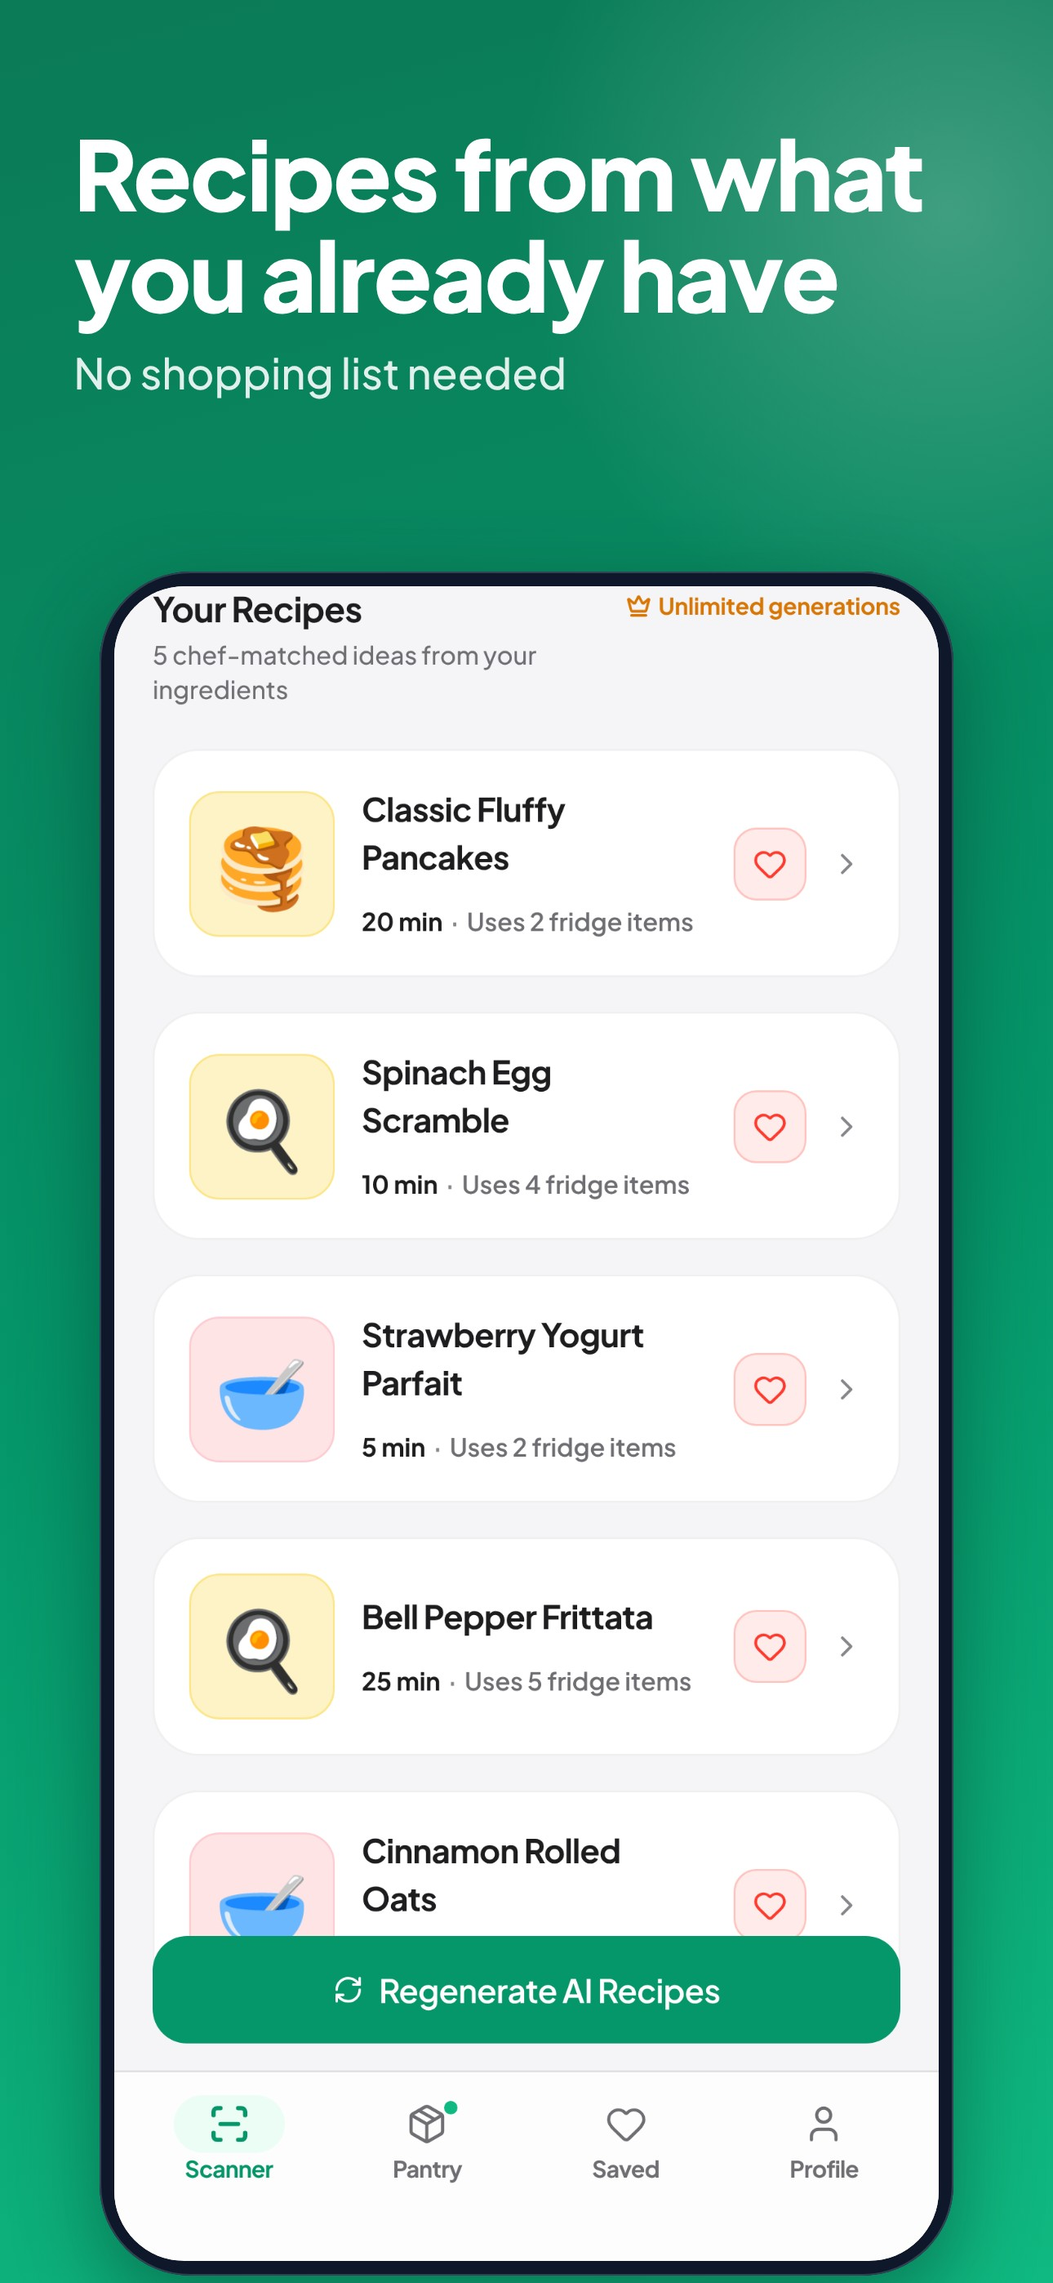
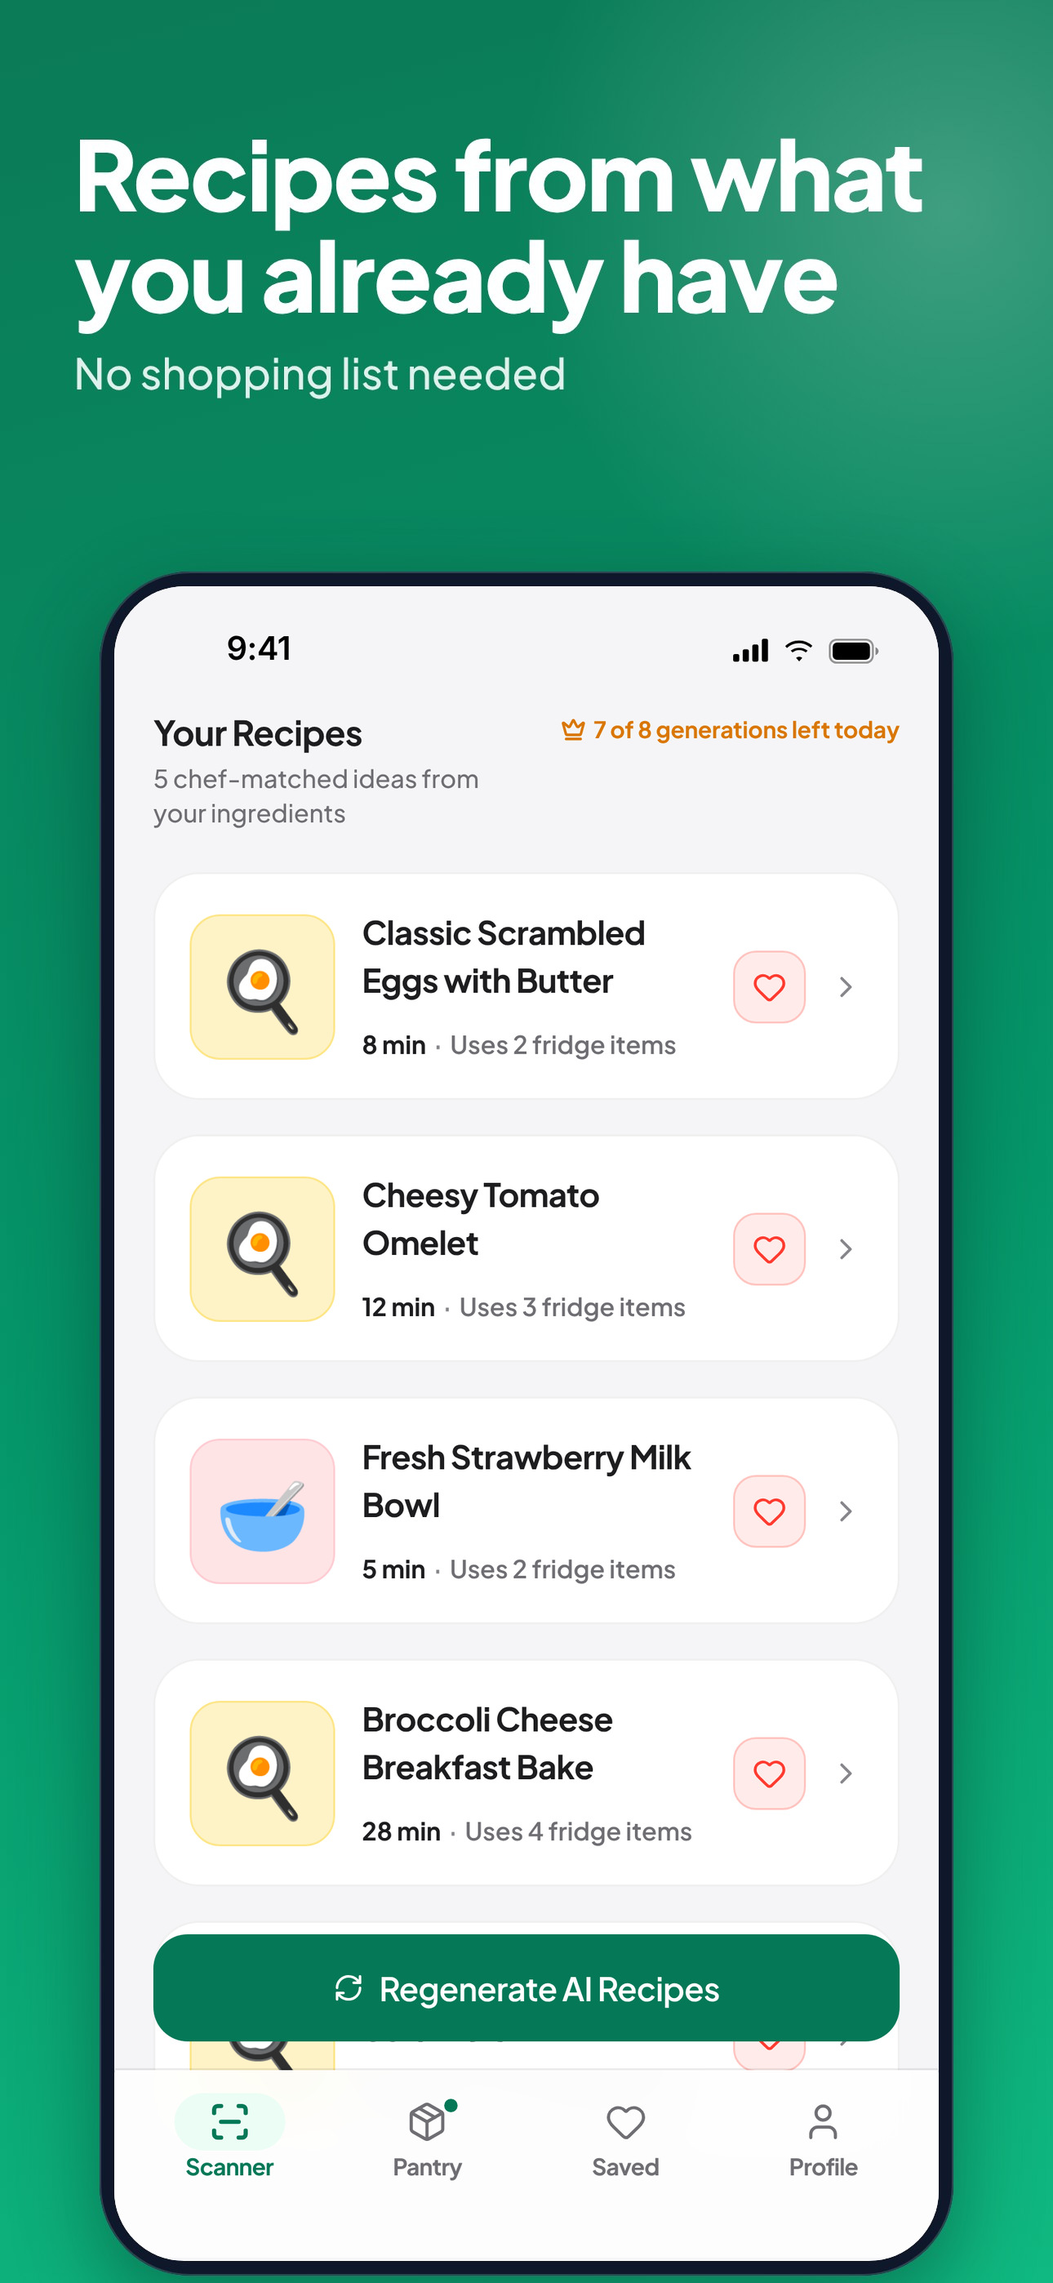
Store slide 02 (EN, PL) recaptured from the real app with status bar; capture tools kept in repo; recipe card: correct noun forms (1 item, Polish 2-4 / 5+)
Claude-Session: https://claude.ai/code/session_01RtbBoobjW7cVhPz1v3aXm1

diff --git a/docs/store/screenshots/tools/capture.js b/docs/store/screenshots/tools/capture.js
@@ -1,0 +1,67 @@
+// Captures the REAL CookSnap screen (the web build served by Metro on :8081) at the phone frame of the slides (430 x 873 pt @3x
+// = 1290 x 2619 px, the same shape as the frame screen) and draws the iOS status bar (9:41, signal, Wi-Fi, full battery) on top, because a browser has none.
+//
+//   NODE_PATH=<dir with playwright> node capture.js <scan|recipes> <en|pl> <out.png> [fridge-photo.jpg|png]
+//
+// Needs `EXPO_PUBLIC_GEMINI_PROXY_URL=... npx expo start --web --port 8081` running. Nothing in the app is changed: the
+// screen is put in its normal "just scanned" state by writing the app's own saved data (same keys the app uses), and
+// "recipes" really taps "Generate AI Recipes" so the recipes are genuinely written by the AI through the proxy.
+const { chromium } = require('playwright');
+const fs = require('fs');
+const path = require('path');
+
+const [slide, lang, out, photo] = process.argv.slice(2);
+if (!slide || !lang || !out) { console.error('usage: capture.js <scan|recipes> <en|pl> <out.png> [photo]'); process.exit(1); }
+
+const T = require(path.join(__dirname, 'strings.js'))[lang];
+const ING = {
+  en: ['Eggs', 'Milk', 'Cheese', 'Butter', 'Tomatoes', 'Bell Pepper', 'Spinach', 'Lemons', 'Strawberries', 'Carrots', 'Cucumber', 'Broccoli', 'Chicken', 'Olives'],
+  pl: ['Jajka', 'Mleko', 'Ser', 'Masło', 'Pomidory', 'Papryka', 'Szpinak', 'Cytryny', 'Truskawki', 'Marchewki', 'Ogórek', 'Brokuły', 'Kurczak', 'Oliwki'],
+};
+const EMOJI = ['🥚', '🥛', '🧀', '🧈', '🍅', '🫑', '🥬', '🍋', '🍓', '🥕', '🥒', '🥦', '🍗', '🫒'];
+const items = ING[lang].map((name, i) => ({ id: `ing-${i}`, name, emoji: EMOJI[i], icon: EMOJI[i] }));
+
+const STATUS_BAR = `
+<div id="ios-status" style="position:fixed;left:0;top:0;width:430px;height:54px;z-index:2147483647;pointer-events:none;font-family:Inter,'SF Pro Text',-apple-system,Helvetica,Arial,sans-serif;color:#000">
+  <div style="position:absolute;left:0;top:0;width:150px;height:54px;display:flex;align-items:center;justify-content:center;padding-top:6px;font-weight:600;font-size:17px;letter-spacing:-0.2px">9:41</div>
+  <div style="position:absolute;right:30px;top:0;height:54px;display:flex;align-items:center;gap:7px;padding-top:6px">
+    <svg width="19" height="12" viewBox="0 0 19 12"><rect x="0" y="8" width="3.2" height="4" rx="1" fill="#000"/><rect x="5" y="5.5" width="3.2" height="6.5" rx="1" fill="#000"/><rect x="10" y="3" width="3.2" height="9" rx="1" fill="#000"/><rect x="15" y="0" width="3.2" height="12" rx="1" fill="#000"/></svg>
+    <svg width="17" height="12" viewBox="0 0 17 12"><path d="M8.5 2.3c2.3 0 4.4.9 6 2.4l.9-1A10.3 10.3 0 0 0 8.5.9C5.7.9 3.2 2 1.2 3.8l.9 1a8.9 8.9 0 0 1 6.4-2.5z" fill="#000"/><path d="M8.5 5.9c1.3 0 2.5.5 3.5 1.3l.9-1a7.4 7.4 0 0 0-8.8 0l.9 1c1-.8 2.2-1.3 3.5-1.3z" fill="#000"/><path d="M8.5 9.4c.6 0 1.2.2 1.6.6L8.5 11.8 6.9 10c.4-.4 1-.6 1.6-.6z" fill="#000"/></svg>
+    <svg width="27" height="13" viewBox="0 0 27 13"><rect x="0.5" y="0.5" width="22.5" height="12" rx="3.6" fill="none" stroke="#000" opacity="0.4"/><rect x="2" y="2" width="19.5" height="9" rx="2.3" fill="#000"/><path d="M24.4 4.4v4.2c.9-.3 1.6-1.2 1.6-2.1s-.7-1.8-1.6-2.1z" fill="#000" opacity="0.45"/></svg>
+  </div>
+</div>`;
+
+(async () => {
+  const browser = await chromium.launch();
+  const ctx = await browser.newContext({ viewport: { width: 430, height: 873 }, deviceScaleFactor: 3, locale: lang === 'pl' ? 'pl-PL' : 'en-US', colorScheme: 'light' });
+  const page = await ctx.newPage();
+  const seed = {
+    'cooksnap:onboardingComplete:v1': 'true', 'cooksnap:recipeLanguage:v1': lang, 'cooksnap:unitSystem:v1': lang === 'pl' ? 'metric' : 'us',
+    'cooksnap:firstScanHintShown:v1': 'true', 'cooksnap:settingsDoneHintShown:v1': 'true', 'cooksnap:aiConsent:v1': 'true',
+    'cooksnap:ingredients:v1': JSON.stringify(items),
+    'cooksnap:isPro:v1': slide === 'recipes' ? 'true' : 'false',
+  };
+  if (photo) { seed['cooksnap:fridgePhoto:v1'] = JSON.stringify('/__shot/fridge'); await page.route('**/__shot/fridge', (r) => r.fulfill({ body: fs.readFileSync(photo), contentType: photo.endsWith('.png') ? 'image/png' : 'image/jpeg' })); }
+  await page.addInitScript((s) => { for (const [k, v] of Object.entries(s)) localStorage.setItem(k, v); }, seed);
+  const cdp = await ctx.newCDPSession(page);
+  await cdp.send('Emulation.setSafeAreaInsetsOverride', { insets: { top: 54, bottom: 34 } }).catch(() => {});
+  await page.goto('http://localhost:8081/', { waitUntil: 'load' });
+  await page.getByText(T.nav_scanner, { exact: true }).last().waitFor({ timeout: 120000 });
+  await page.waitForTimeout(2500);
+  if (slide === 'recipes') {
+    await page.getByText(T.generate, { exact: true }).first().click();
+    await page.getByText(T.recipesTitle, { exact: true }).first().waitFor({ timeout: 180000 });
+    await page.waitForTimeout(6000); // let the cards and their emoji settle
+    await page.evaluate((title) => {
+      const el = [...document.querySelectorAll('div')].find((d) => d.children.length === 0 && d.textContent.trim() === title);
+      const sc = [...document.querySelectorAll('div')].filter((e) => e.scrollHeight > e.clientHeight + 50);
+      if (el) for (const s of sc) s.scrollTop += el.getBoundingClientRect().top - 64;
+    }, T.recipesTitle);
+    await page.waitForTimeout(1200);
+  }
+  await page.evaluate((html) => { const d = document.createElement('div'); d.innerHTML = html; document.body.appendChild(d.firstElementChild); }, STATUS_BAR);
+  await page.waitForTimeout(500);
+  await page.screenshot({ path: out });
+  await browser.close();
+  console.log('saved', out);
+})().catch((e) => { console.error(e); process.exit(1); });

diff --git a/src/components/RecipeCard.jsx b/src/components/RecipeCard.jsx
@@ -7,6 +7,7 @@ import {
 } from "../utils/imageUtils";
 import { useTheme } from "../context/ThemeContext";
 import { useTranslation } from "../context/LanguageContext";
+import { translateCount } from "../i18n";
 import { cookTimeLabel } from "../utils/timeFormat";
 import { TYPE, WEIGHT, RADIUS, SPACE, ICON, emojiLine } from "../theme/tokens";
 import { APPLE, SLATE } from "../theme/palette";
@@ -56,7 +57,7 @@ function RecipeCard({
   compact = false,
 }) {
   const { colors, isDark } = useTheme();
-  const { t } = useTranslation();
+  const { t, recipeLanguageId } = useTranslation();
 
   const safeRecipe = recipe && typeof recipe === "object" ? recipe : null;
   if (!safeRecipe) return null;
@@ -152,7 +153,13 @@ function RecipeCard({
               <Text style={{ color: colors.textTertiary || SLATE[300] }}>
                 {"  ·  "}
               </Text>
-              {t("recipeCard.usesFridgeItems", { count: matchCount })}
+              {matchCount === 1
+                ? t("recipeCard.usesFridgeItemOne", { count: matchCount })
+                : translateCount(recipeLanguageId, matchCount, {
+                    few: "recipeCard.usesFridgeItemsFew",
+                    many: "recipeCard.usesFridgeItemsMany",
+                    fallback: "recipeCard.usesFridgeItems",
+                  })}
             </>
           )}
         </Text>

diff --git a/__tests__/recipeCardCounts.test.js b/__tests__/recipeCardCounts.test.js
@@ -1,0 +1,22 @@
+import { translate, translateCount } from "../src/i18n";
+
+const uses = (lang, n) =>
+  n === 1
+    ? translate(lang, "recipeCard.usesFridgeItemOne", { count: n })
+    : translateCount(lang, n, { few: "recipeCard.usesFridgeItemsFew", many: "recipeCard.usesFridgeItemsMany", fallback: "recipeCard.usesFridgeItems" });
+
+describe("'Uses N fridge items' on a recipe card", () => {
+  it("English says 'item' for one", () => {
+    expect(uses("en", 1)).toBe("Uses 1 fridge item");
+    expect(uses("en", 3)).toBe("Uses 3 fridge items");
+  });
+
+  it("Polish uses the right noun form: 1 składnik, 2-4 składniki, 5+ składników", () => {
+    expect(uses("pl", 1)).toBe("Wykorzystuje 1 składnik z lodówki");
+    expect(uses("pl", 2)).toBe("Wykorzystuje 2 składniki z lodówki");
+    expect(uses("pl", 4)).toBe("Wykorzystuje 4 składniki z lodówki");
+    expect(uses("pl", 5)).toBe("Wykorzystuje 5 składników z lodówki");
+    expect(uses("pl", 12)).toBe("Wykorzystuje 12 składników z lodówki");
+    expect(uses("pl", 22)).toBe("Wykorzystuje 22 składniki z lodówki");
+  });
+});

diff --git a/src/i18n/translations/th.js b/src/i18n/translations/th.js
@@ -306,6 +306,9 @@ export default {
   "recipeFeed.errorTitle": "ขณะนี้ไม่สามารถสร้างสูตรอาหารได้",
   "recipeFeed.errorBody": "เราไม่สามารถเชื่อมต่อกับ AI ได้ แตะ \"สร้างสูตรอาหารด้วย AI\" ด้านล่างเพื่อลองอีกครั้ง",
   "recipeCard.usesFridgeItems": "ใช้วัตถุดิบในตู้เย็น {count} อย่าง",
+  "recipeCard.usesFridgeItemOne": "ใช้วัตถุดิบในตู้เย็น {count} อย่าง",
+  "recipeCard.usesFridgeItemsFew": "ใช้วัตถุดิบในตู้เย็น {count} อย่าง",
+  "recipeCard.usesFridgeItemsMany": "ใช้วัตถุดิบในตู้เย็น {count} อย่าง",
   "recipeCard.viewRecipe": "ดูสูตรอาหาร",
   "a11y.viewRecipe": "ดูสูตรอาหาร",
   "a11y.viewRecipeNamed": "ดูสูตรอาหาร: {title}",

diff --git a/src/i18n/translations/hi.js b/src/i18n/translations/hi.js
@@ -306,6 +306,9 @@ export default {
   "recipeFeed.errorTitle": "अभी रेसिपी नहीं बनाई जा सकीं",
   "recipeFeed.errorBody": "हम एआई से संपर्क नहीं कर सके। फिर से प्रयास करने के लिए नीचे \"AI रेसिपी बनाएं\" पर टैप करें।",
   "recipeCard.usesFridgeItems": "फ्रिज की {count} सामग्री का उपयोग",
+  "recipeCard.usesFridgeItemOne": "फ्रिज की {count} सामग्री का उपयोग",
+  "recipeCard.usesFridgeItemsFew": "फ्रिज की {count} सामग्री का उपयोग",
+  "recipeCard.usesFridgeItemsMany": "फ्रिज की {count} सामग्री का उपयोग",
   "recipeCard.viewRecipe": "रेसिपी देखें",
   "a11y.viewRecipe": "रेसिपी देखें",
   "a11y.viewRecipeNamed": "रेसिपी देखें: {title}",

diff --git a/src/i18n/translations/uk.js b/src/i18n/translations/uk.js
@@ -306,6 +306,9 @@ export default {
   "recipeFeed.errorTitle": "Зараз не вдається створити рецепти",
   "recipeFeed.errorBody": "Не вдалося з'єднатися зі штучним інтелектом. Торкніться «Створити рецепти AI» нижче, щоб спробувати ще раз.",
   "recipeCard.usesFridgeItems": "Використовує {count} інгредієнти з холодильника",
+  "recipeCard.usesFridgeItemOne": "Використовує {count} інгредієнт з холодильника",
+  "recipeCard.usesFridgeItemsFew": "Використовує {count} інгредієнти з холодильника",
+  "recipeCard.usesFridgeItemsMany": "Використовує {count} інгредієнтів з холодильника",
   "recipeCard.viewRecipe": "Переглянути рецепт",
   "a11y.viewRecipe": "Переглянути рецепт",
   "a11y.viewRecipeNamed": "Переглянути рецепт: {title}",

diff --git a/src/i18n/translations/el.js b/src/i18n/translations/el.js
@@ -306,6 +306,9 @@ export default {
   "recipeFeed.errorTitle": "Δεν ήταν δυνατή η δημιουργία συνταγών αυτή τη στιγμή",
   "recipeFeed.errorBody": "Δεν καταφέραμε να συνδεθούμε με το AI. Πατήστε παρακάτω «Δημιουργία συνταγών AI» για να δοκιμάσετε ξανά.",
   "recipeCard.usesFridgeItems": "Χρησιμοποιεί {count} υλικά από το ψυγείο",
+  "recipeCard.usesFridgeItemOne": "Χρησιμοποιεί {count} υλικά από το ψυγείο",
+  "recipeCard.usesFridgeItemsFew": "Χρησιμοποιεί {count} υλικά από το ψυγείο",
+  "recipeCard.usesFridgeItemsMany": "Χρησιμοποιεί {count} υλικά από το ψυγείο",
   "recipeCard.viewRecipe": "Προβολή συνταγής",
   "a11y.viewRecipe": "Προβολή συνταγής",
   "a11y.viewRecipeNamed": "Προβολή συνταγής: {title}",

diff --git a/src/i18n/translations/bg.js b/src/i18n/translations/bg.js
@@ -306,6 +306,9 @@ export default {
   "recipeFeed.errorTitle": "В момента не можем да генерираме рецепти",
   "recipeFeed.errorBody": "Не успяхме да се свържем с ИИ. Докоснете „Генерирай рецепти с ИИ“ по-долу, за да опитате отново.",
   "recipeCard.usesFridgeItems": "Използва {count} продукта от хладилника",
+  "recipeCard.usesFridgeItemOne": "Използва {count} продукта от хладилника",
+  "recipeCard.usesFridgeItemsFew": "Използва {count} продукта от хладилника",
+  "recipeCard.usesFridgeItemsMany": "Използва {count} продукта от хладилника",
   "recipeCard.viewRecipe": "Преглед на рецепта",
   "a11y.viewRecipe": "Преглед на рецепта",
   "a11y.viewRecipeNamed": "Преглед на рецепта: {title}",

diff --git a/src/i18n/translations/ru.js b/src/i18n/translations/ru.js
@@ -306,6 +306,9 @@ export default {
   "recipeFeed.errorTitle": "Сейчас не удаётся создать рецепты",
   "recipeFeed.errorBody": "Не удалось связаться с ИИ. Нажмите «Создать рецепты с ИИ» ниже, чтобы попробовать снова.",
   "recipeCard.usesFridgeItems": "Использует {count} прод. из холодильника",
+  "recipeCard.usesFridgeItemOne": "Использует {count} прод. из холодильника",
+  "recipeCard.usesFridgeItemsFew": "Использует {count} прод. из холодильника",
+  "recipeCard.usesFridgeItemsMany": "Использует {count} прод. из холодильника",
   "recipeCard.viewRecipe": "Смотреть рецепт",
   "a11y.viewRecipe": "Смотреть рецепт",
   "a11y.viewRecipeNamed": "Смотреть рецепт: {title}",

diff --git a/src/i18n/translations/ar.js b/src/i18n/translations/ar.js
@@ -306,6 +306,9 @@ export default {
   "recipeFeed.errorTitle": "تعذّر إنشاء الوصفات الآن",
   "recipeFeed.errorBody": "تعذر الاتصال بالذكاء الاصطناعي. اضغط على \"إنشاء وصفات بالذكاء الاصطناعي\" أدناه للمحاولة مرة أخرى.",
   "recipeCard.usesFridgeItems": "تستخدم {count} من عناصر الثلاجة",
+  "recipeCard.usesFridgeItemOne": "تستخدم {count} من عناصر الثلاجة",
+  "recipeCard.usesFridgeItemsFew": "تستخدم {count} من عناصر الثلاجة",
+  "recipeCard.usesFridgeItemsMany": "تستخدم {count} من عناصر الثلاجة",
   "recipeCard.viewRecipe": "عرض الوصفة",
   "a11y.viewRecipe": "عرض الوصفة",
   "a11y.viewRecipeNamed": "عرض الوصفة: {title}",

diff --git a/src/i18n/translations/he.js b/src/i18n/translations/he.js
@@ -306,6 +306,9 @@ export default {
   "recipeFeed.errorTitle": "לא ניתן ליצור מתכונים כרגע",
   "recipeFeed.errorBody": "לא הצלחנו להתחבר ל-AI. הקישו למטה על \"צור מתכונים ב-AI\" כדי לנסות שוב.",
   "recipeCard.usesFridgeItems": "משתמש ב-{count} מצרכים מהמקרר",
+  "recipeCard.usesFridgeItemOne": "משתמש ב-{count} מצרכים מהמקרר",
+  "recipeCard.usesFridgeItemsFew": "משתמש ב-{count} מצרכים מהמקרר",
+  "recipeCard.usesFridgeItemsMany": "משתמש ב-{count} מצרכים מהמקרר",
   "recipeCard.viewRecipe": "הצג מתכון",
   "a11y.viewRecipe": "הצג מתכון",
   "a11y.viewRecipeNamed": "צפייה במתכון: {title}",

diff --git a/src/i18n/translations/vi.js b/src/i18n/translations/vi.js
@@ -306,6 +306,9 @@ export default {
   "recipeFeed.errorTitle": "Hiện chưa thể tạo công thức món ăn",
   "recipeFeed.errorBody": "Chúng tôi không thể kết nối với AI. Nhấn \"Tạo công thức AI\" bên dưới để thử lại.",
   "recipeCard.usesFridgeItems": "Dùng {count} nguyên liệu trong tủ lạnh",
+  "recipeCard.usesFridgeItemOne": "Dùng {count} nguyên liệu trong tủ lạnh",
+  "recipeCard.usesFridgeItemsFew": "Dùng {count} nguyên liệu trong tủ lạnh",
+  "recipeCard.usesFridgeItemsMany": "Dùng {count} nguyên liệu trong tủ lạnh",
   "recipeCard.viewRecipe": "Xem công thức",
   "a11y.viewRecipe": "Xem công thức",
   "a11y.viewRecipeNamed": "Xem công thức: {title}",
